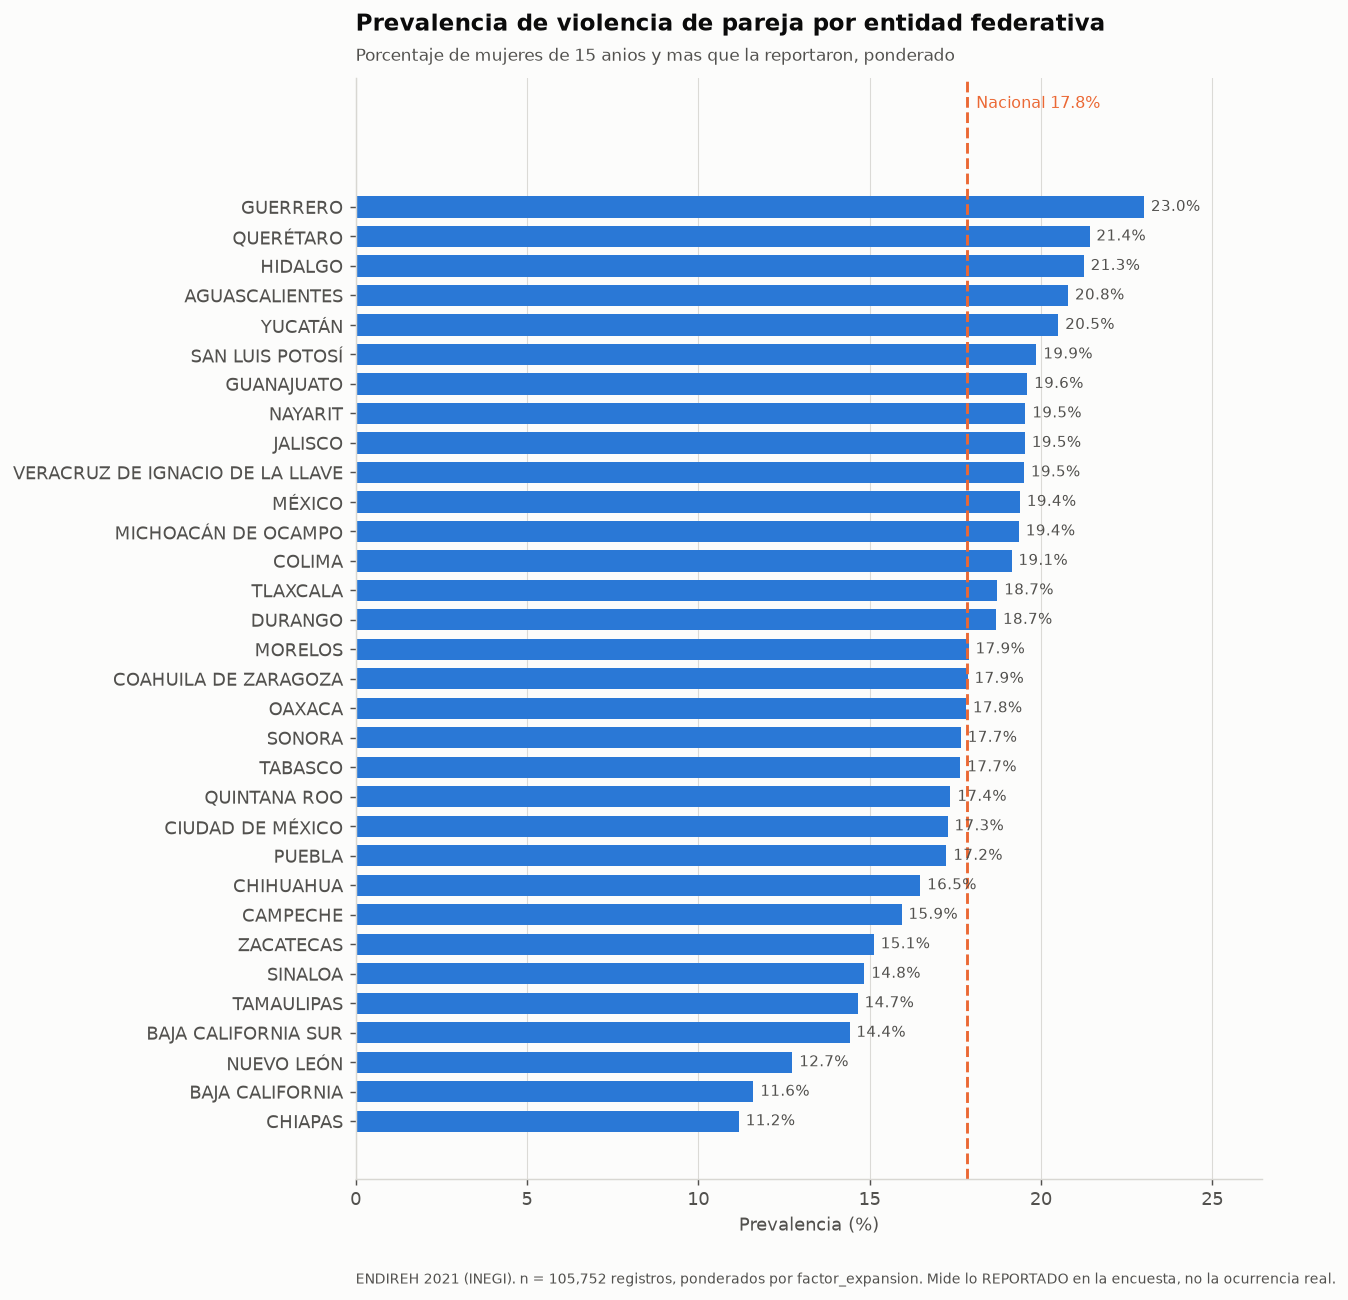
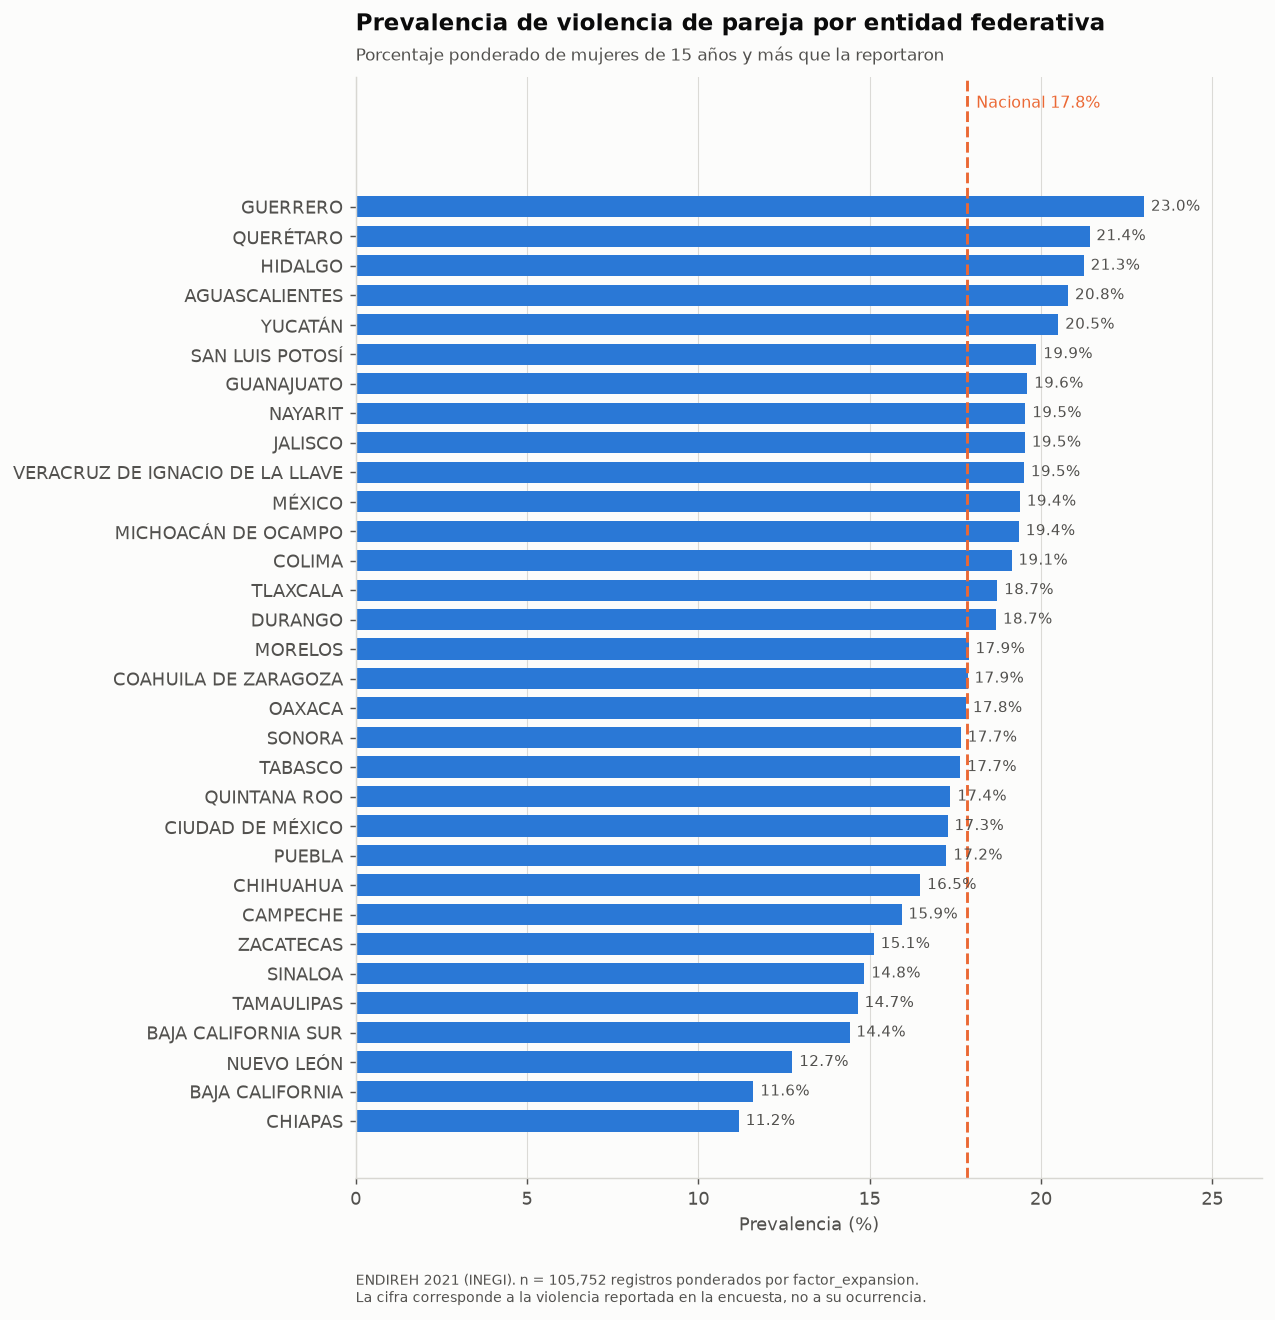
ajuestes en gráficas

diff --git a/src/visualization/graficas.py b/src/visualization/graficas.py
@@ -223,7 +223,7 @@ def figura_01_distribucion_edad(df: pl.DataFrame) -> None:
     ax.axvline(9.5, color=NARANJA, linewidth=1.6, linestyle="--")
     ax.annotate(
         f"{imposibles:,} valores ({100 * imposibles / len(valores):.1f}%)\n"
-        "por debajo de 10: imposibles\ncomo edad a la primera union",
+        "por debajo de 10 años,\nimposibles como edad\na la primera unión",
         xy=(9.5, ax.get_ylim()[1] * 0.78),
         xytext=(22, ax.get_ylim()[1] * 0.80),
         fontsize=9,
@@ -234,15 +234,15 @@ def figura_01_distribucion_edad(df: pl.DataFrame) -> None:
     preparar_ejes(ax)
     titular(
         ax,
-        "La variable edad_primer_union no se comporta como una edad",
-        "Distribucion de frecuencias de los valores observados",
+        "Los valores de edad_primer_union no corresponden a una edad",
+        "Distribución de frecuencias de los valores declarados",
     )
     ax.set_xlabel("Valor declarado")
-    ax.set_ylabel("Numero de mujeres encuestadas")
+    ax.set_ylabel("Mujeres encuestadas")
     pie_de_figura(
         ax,
-        f"ENDIREH 2021 (INEGI). n = {len(valores):,} registros con valor. "
-        "Los codigos 98 y 99 ya fueron convertidos a nulo en el preprocesamiento.",
+        f"ENDIREH 2021 (INEGI). n = {len(valores):,} registros con valor.\n"
+        "Los códigos 98 y 99 se excluyen por corresponder a no respuesta.",
     )
     guardar(fig, "01_distribucion_edad_primer_union.png")
 
@@ -279,8 +279,8 @@ def figura_02_ingreso_por_violencia(df: pl.DataFrame) -> None:
     alto = 0.38
 
     fig, ax = plt.subplots(figsize=(9, 5.5))
-    ax.barh(y + alto / 2, v_sin, height=alto, color=AZUL, label="No reporto violencia")
-    ax.barh(y - alto / 2, v_con, height=alto, color=NARANJA, label="Reporto violencia")
+    ax.barh(y + alto / 2, v_sin, height=alto, color=AZUL, label="No reportó violencia")
+    ax.barh(y - alto / 2, v_con, height=alto, color=NARANJA, label="Reportó violencia")
 
     for yi, (vs, vc) in enumerate(zip(v_sin, v_con)):
         ax.text(
@@ -308,17 +308,17 @@ def figura_02_ingreso_por_violencia(df: pl.DataFrame) -> None:
     ax.legend(frameon=False, loc="upper right", fontsize=9.5)
     titular(
         ax,
-        "Los dos grupos solo se separan en la mitad alta de la distribucion",
-        "Ingreso mensual de la pareja por percentil, segun si se reporto violencia",
+        "La diferencia de ingreso se concentra en la mitad alta de la distribución",
+        "Ingreso mensual de la pareja por percentil, según si se reportó violencia",
     )
     ax.set_xlabel("Ingreso de la pareja (pesos)")
     pie_de_figura(
         ax,
         f"ENDIREH 2021 (INEGI). n = {len(con):,} con violencia y {len(sin):,} sin violencia; "
-        "se excluyen ingresos en cero.\n"
-        "Hasta la mediana las distribuciones son casi identicas; la brecha aparece en Q3 y P90. "
-        "La asociacion no implica causalidad:\ntambien puede reflejar diferencias en la "
-        "disposicion a reportar, no solo en la ocurrencia.",
+        "se excluyen los ingresos en cero.\n"
+        "Hasta la mediana ambas distribuciones coinciden; la diferencia aparece en Q3 y P90.\n"
+        "La asociación no permite establecer causalidad: también puede reflejar diferencias "
+        "en la disposición a reportar.",
     )
     guardar(fig, "02_ingreso_por_violencia.png")
 
@@ -344,13 +344,13 @@ def figura_03_prevalencia_entidad(df: pl.DataFrame) -> None:
     titular(
         ax,
         "Prevalencia de violencia de pareja por entidad federativa",
-        "Porcentaje de mujeres de 15 anios y mas que la reportaron, ponderado",
+        "Porcentaje ponderado de mujeres de 15 años y más que la reportaron",
     )
     ax.set_xlabel("Prevalencia (%)")
     pie_de_figura(
         ax,
-        f"ENDIREH 2021 (INEGI). n = {df.height:,} registros, ponderados por "
-        "factor_expansion. Mide lo REPORTADO en la encuesta, no la ocurrencia real.",
+        f"ENDIREH 2021 (INEGI). n = {df.height:,} registros ponderados por factor_expansion.\n"
+        "La cifra corresponde a la violencia reportada en la encuesta, no a su ocurrencia.",
     )
     guardar(fig, "03_prevalencia_por_entidad.png")
 
@@ -382,8 +382,8 @@ def figura_04_prevalencia_estado_civil(df: pl.DataFrame) -> None:
     pie_de_figura(
         ax,
         f"ENDIREH 2021 (INEGI). n = {df.height:,} registros ponderados.\n"
-        "Lectura: lo mas probable es que la violencia haya precedido a la separacion, "
-        "no que separarse la provoque. El dato no permite establecer la direccion causal.",
+        "La encuesta es transversal: registra el estado conyugal y la violencia en un mismo\n"
+        "momento, por lo que no permite establecer el orden entre ambos.",
     )
     guardar(fig, "04_prevalencia_por_estado_civil.png")
 
